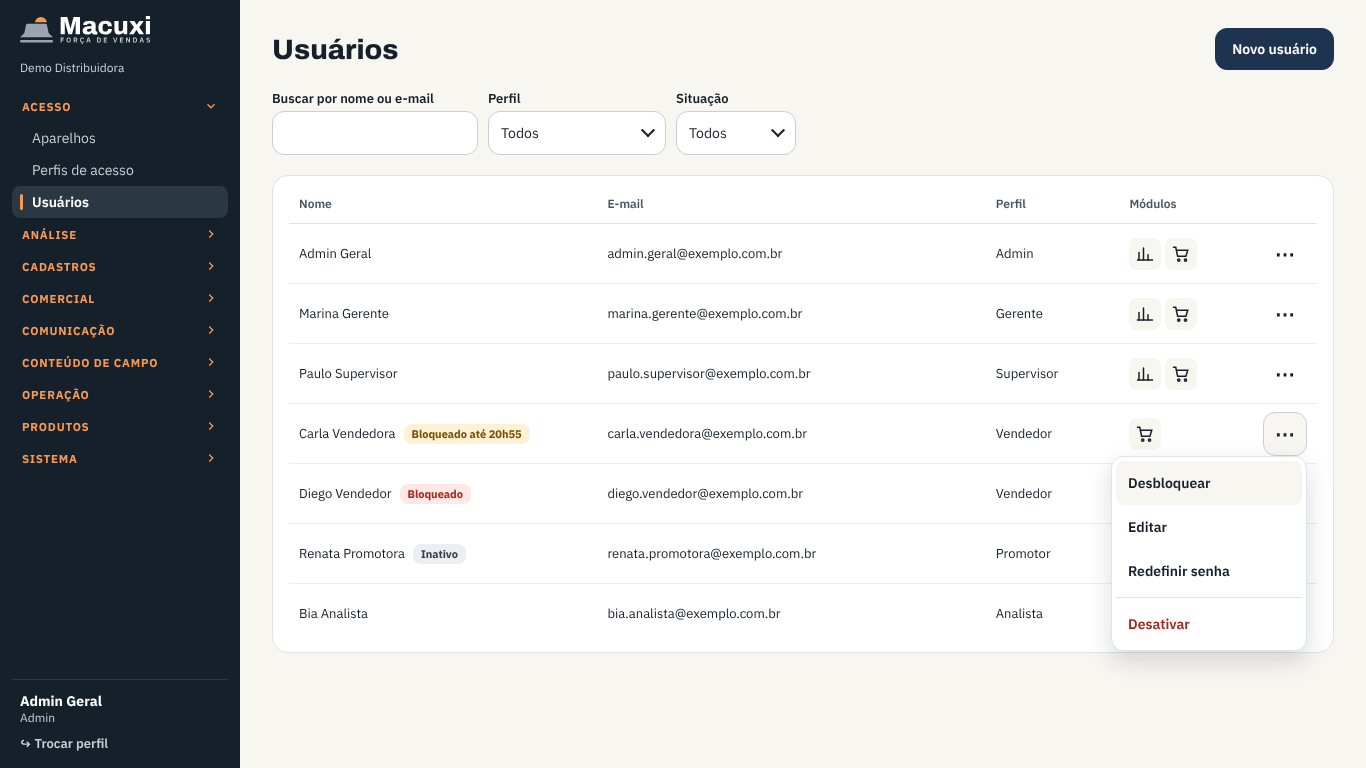
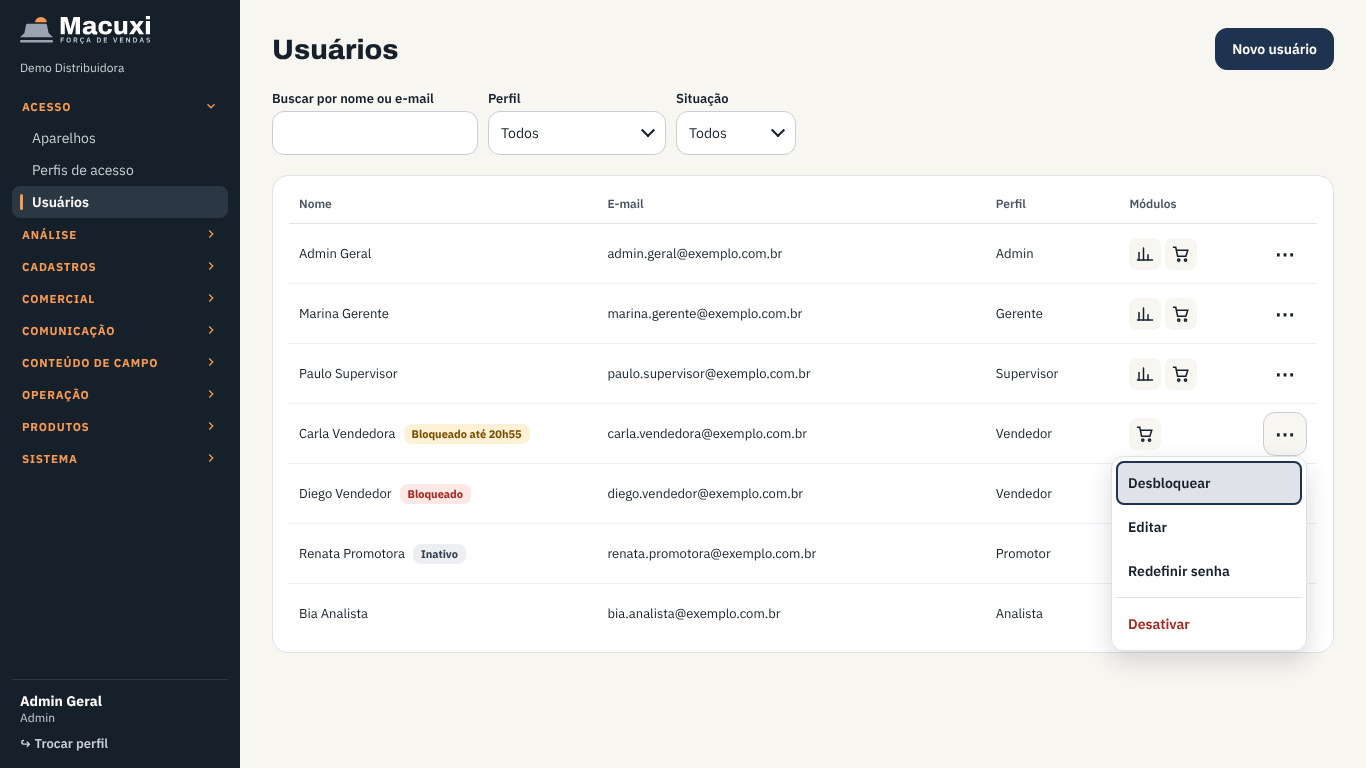
designer-ux: usuario-bloqueio com foco do menu no padrao do kit (MC-0060)
Simulacao: o item em foco do menu "..." passa a usar accent-soft #DFE2E6 com
contorno Azul noite #1E3350 (foco do teclado que o MenuAcoes poe no 1o item ao
abrir), como no kit (MC-0058). Print 2 refeito a 1366x768.
Spec: a tela real usa o MenuAcoes de @macuxi/ui/web, sem estilo proprio; o
texto da secao 5 separa o bloqueio automatico por tentativas do "Desativar"
do admin, que nao e bloqueio e se desfaz com "Reativar".

Agente: designer-ux
Claude-Session: https://claude.ai/code/session_0157qAhjJSsQbJ8Ppup5bQA7

Changed region(s): [[0.7994, 0.5938, 0.9531, 0.6562]]

diff --git a/docs/design/telas/usuario-bloqueio/usuario-bloqueio.html b/docs/design/telas/usuario-bloqueio/usuario-bloqueio.html
@@ -57,10 +57,10 @@ tr:last-child td{border-bottom:0}
 .mais{width:44px;height:44px;border-radius:12px;display:inline-flex;align-items:center;justify-content:center;font-size:20px;font-weight:700;border:1px solid transparent}
 .mais.on{border-color:var(--field);background:var(--ground)}
 .acoes{width:56px;text-align:right;position:relative}
-/* menu ⋯ (modules/core/web/components/acesso/menu-linha.tsx) */
+/* menu ⋯ (MenuAcoes de @macuxi/ui/web; ao abrir, o foco vai para o 1º item) */
 .pop{position:absolute;right:10px;top:52px;z-index:5;min-width:196px;background:#fff;border:1px solid var(--line);border-radius:12px;padding:4px;box-shadow:0 10px 24px rgba(22,32,42,.16);display:flex;flex-direction:column;text-align:left}
 .pop div{min-height:44px;display:flex;align-items:center;padding:0 12px;border-radius:8px;font-size:14px;font-weight:600}
-.pop div.foco{background:var(--ground)}
+.pop div.foco{background:#DFE2E6;outline:2px solid #1E3350;outline-offset:-2px}
 .pop div.perigo{color:var(--danger)}
 .pop hr{border:0;border-top:1px solid var(--line);margin:4px 0}
 /* gaveta (packages/ui/src/web/overlay.tsx · Drawer) */

diff --git a/docs/design/telas/usuario-bloqueio.md b/docs/design/telas/usuario-bloqueio.md
@@ -38,6 +38,7 @@ Print: `usuario-bloqueio/2-menu-desbloquear-1366x768.png`.
 - Aparece só quando a linha tem o selo **Bloqueado** ou **Bloqueado até…**, e só para quem tem `usuario.desbloquear` (§5). A ação que o perfil não pode fazer não aparece (§P3.3).
 - **Primeiro item do menu.** É a ação que o selo pede. Ordem: **Desbloquear · Editar · Redefinir senha · ── · Desativar** (perigo por último, depois do traço, §P3.2).
 - testID: `usuarios.desbloquear.<id>`.
+- Componente: o menu é o `MenuAcoes` de `@macuxi/ui/web` (revisão do BKO §P3), sem estilo próprio na tela. O item "Desbloquear" é uma `AcaoDoMenu` a mais. No print, "Desbloquear" aparece com o foco do teclado que o `MenuAcoes` põe no primeiro item ao abrir (fundo `accent-soft` #DFE2E6 e contorno Azul noite #1E3350); o fundo Pérola fica só para o hover.
 
 ## 4. "Desbloquear" na gaveta do usuário
 
@@ -54,7 +55,7 @@ Print: `usuario-bloqueio/3-gaveta-bloqueado-1366x768.png`.
 **Sem confirmação.** Um clique desbloqueia.
 - Desbloquear devolve à pessoa o acesso que ela já tinha, com a mesma senha, e não apaga nada. O bloqueio por tentativas acaba sozinho em até 15 minutos de qualquer jeito.
 - Um diálogo "Desbloquear Carla Vendedora?" repetiria o nome e o verbo que o admin acabou de clicar. É o tipo de excesso que o corretor-redundancias aponta (texto além do problema e da ação).
-- O desbloqueio fica na auditoria (§6) e o bloqueio pode ser refeito: por tentativas, se as senhas erradas continuarem; pelo admin, com "Desativar".
+- O desbloqueio fica na auditoria (§6). Se as senhas erradas continuarem, o login bloqueia de novo sozinho, por tentativas. "Desativar" não é bloqueio: é a ação do admin para tirar o acesso de alguém, e quem a desfaz é o "Reativar" (§1).
 - Contraste com o "Reativar", que confirma: reativar devolve o acesso a quem foi tirado de propósito. Desbloquear é a ação corriqueira de quando o vendedor liga dizendo "errei a senha".
 
 **Sem aviso de sucesso em texto na tela.** O resultado aparece no lugar do problema: **o selo some** da linha (e a faixa some da gaveta) e "Desbloquear" sai do menu. Nada de toast, `Notice` ou "Usuário desbloqueado." no topo, que seria uma segunda informação em outro lugar (RN-VEN-42, R-20261110-093124) e um texto que o admin não usa para agir (R-20261110-192153).
